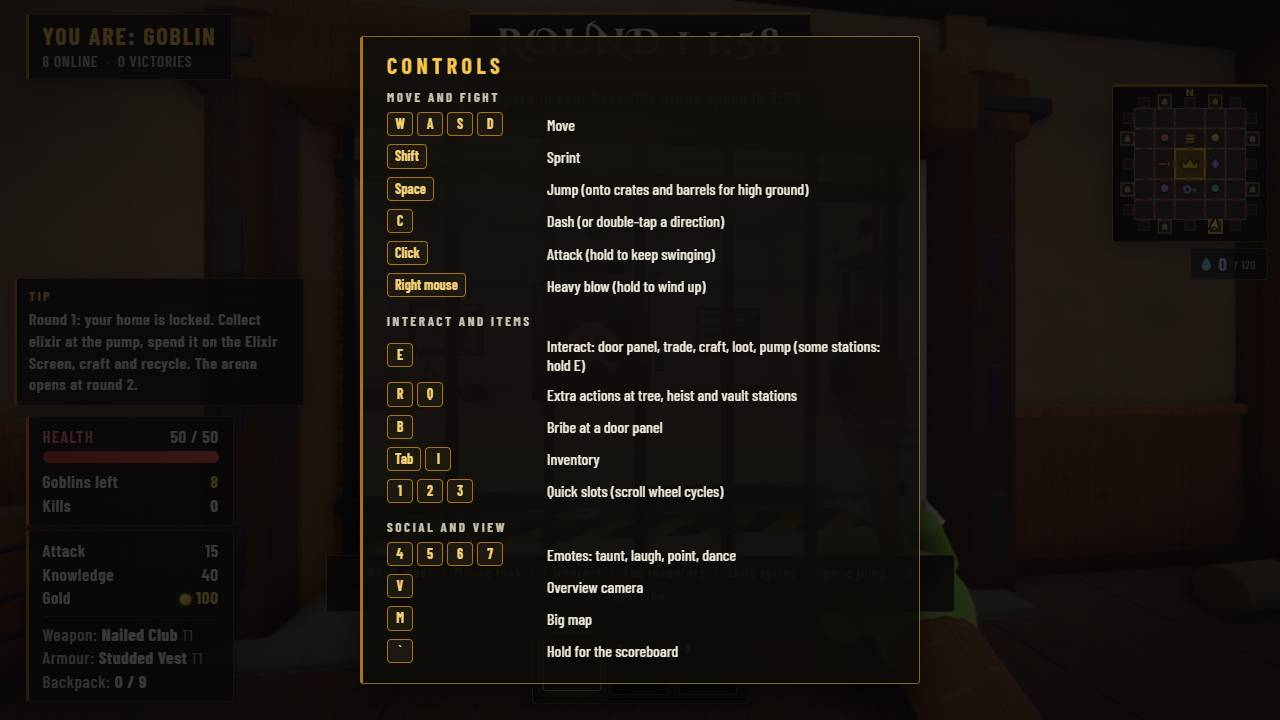
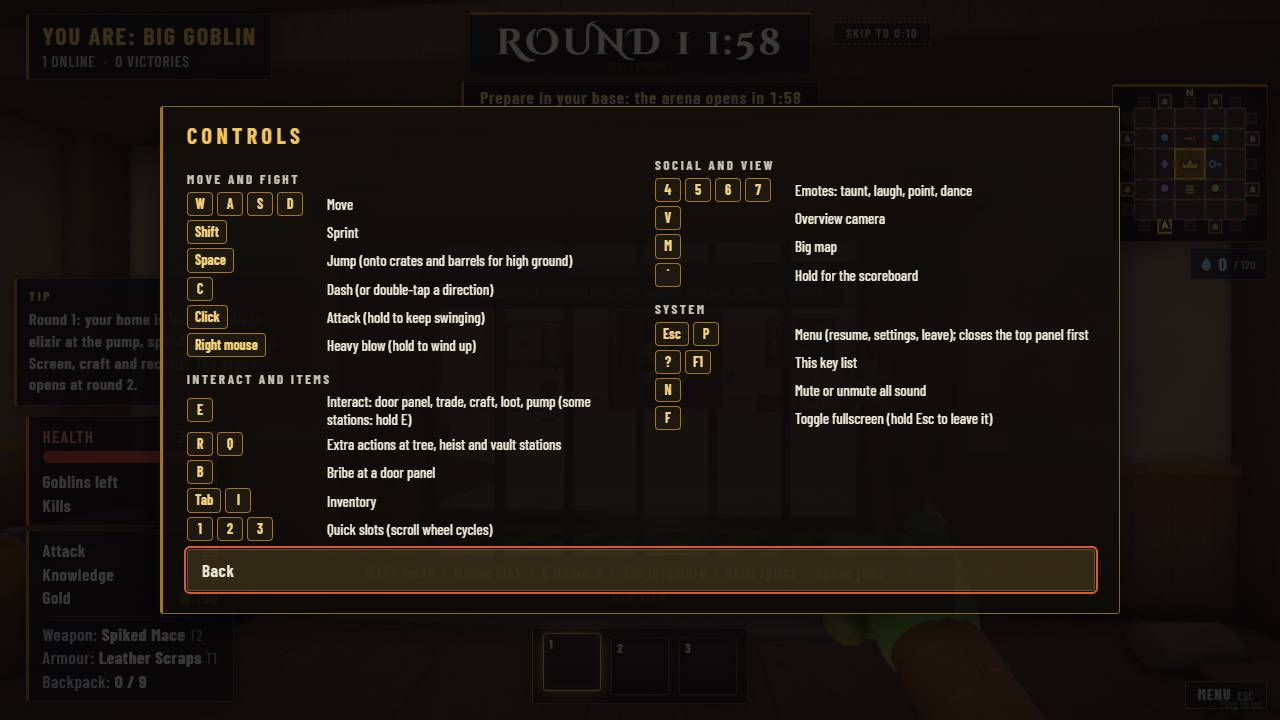
UI organise 2: inventory Sort/Lock/quick-equip, two-column key list

diff --git a/game.js b/game.js
@@ -4960,6 +4960,7 @@ function paintSlot(el, id) {
   if (el.dataset.lab) { const l = document.createElement('span'); l.className = 'kl'; l.textContent = el.dataset.lab; el.appendChild(l); }
   if (k != null) {
     el.appendChild(mkIcon(k, size));
+    if (invLocked(k)) { const lk = document.createElement('span'); lk.textContent = '◆'; lk.title = 'Locked'; lk.style.cssText = 'position:absolute;right:3px;top:1px;font:800 12px system-ui,sans-serif;color:#ffd75e;pointer-events:none;text-shadow:0 1px 2px #000'; el.appendChild(lk); }   // INVORG
     const tn = tierN(k); if (tn != null) { const b = document.createElement('span'); b.textContent = 'T' + tn; b.style.cssText = 'position:absolute;right:3px;bottom:2px;padding:0 4px;border-radius:4px;font:800 10px/14px system-ui,sans-serif;color:#0c0a06;pointer-events:none;background:' + (TIER_COL[(infoOf(k) || {}).tier] || '#9aa0a8'); el.appendChild(b); }
     else if (infoOf(k) && infoOf(k).family === 'brain') { const b = document.createElement('span'); b.textContent = '+' + fmtN(infoOf(k).gain); b.style.cssText = 'position:absolute;right:3px;bottom:2px;padding:0 4px;border-radius:4px;font:800 10px/14px system-ui,sans-serif;color:#0c0a06;pointer-events:none;background:#f08aa8'; el.appendChild(b); }
   } else if (id === 'weapon' || id === 'armor' || id === 'charm') { const c = mkIcon(id === 'weapon' ? 'w:sword' : id === 'charm' ? 'c:heart' : 'a:vest', size); c.className = 'sil'; el.appendChild(c); }
@@ -5021,6 +5022,7 @@ function moveInv(from, to) {
 }
 function dropSlot(id) {
   if (!id || invGet(myInv, id) == null) return;
+  if (invLocked(invGet(myInv, id))) { flashBad(id); invOrgHint('Locked: unlock it first (Lock button)'); return; }   // INVORG
   invDrop(myInv, id); net.send({ drop: id }); if (held === id) held = null; paintAll(); hideTip();
   const mine = actors.get(me); if (mine) showStats(null, mine.goblin);
 }
@@ -5054,7 +5056,7 @@ function buildInv() {
   const closeBtn = document.createElement('button'); closeBtn.textContent = 'CLOSE'; closeBtn.style.cssText = 'border:0;background:linear-gradient(180deg,#ffd75e,#e0a82a);color:#1a1405;font-weight:800';
   const eatBtn = document.createElement('button'); eatBtn.textContent = 'EAT / USE'; eatBtn.id = 'invEat'; eatBtn.style.cssText = 'border:1px solid #8be28b;background:rgba(40,120,50,.35);color:#b8f5b8';
   eatBtn.onclick = () => { const k = held && invGet(myInv, held); if (k && infoOf(k) && (infoOf(k).family === 'brain' || infoOf(k).use || infoOf(k).type === 'charm')) eatSlot(held); else { hintEl.style.color = '#ff8a7a'; hintEl.textContent = 'Pick up a brain or a utility item first, then press Eat / Use (or double-click it)'; setTimeout(() => { hintEl.style.color = '#8d8880'; hintEl.textContent = 'Right-click an item to drop it  ·  Tab / I / E to close'; }, 2200); } };
-  foot.append(hintEl, eatBtn, dropBtn, closeBtn);
+  foot.append(hintEl, ...invOrgButtons(), eatBtn, dropBtn, closeBtn);   // INVORG
   invEl.addEventListener('dblclick', e => { const el = e.target.closest && e.target.closest('.gks'); if (el && el.dataset.id) { held = null; eatSlot(el.dataset.id); } });
   panel.append(main, qwrap, foot); invEl.appendChild(panel);
   ghostEl = document.createElement('div'); ghostEl.style.cssText = 'position:fixed;z-index:70;display:none;pointer-events:none;filter:drop-shadow(0 4px 8px #000);transform:translate(-50%,-50%)';
@@ -5065,6 +5067,7 @@ function buildInv() {
   invEl.addEventListener('click', e => {
     const id = slotOf(e); if (e.target.closest('button')) return;
     if (!id) { if (e.target === invEl) { if (held) { held = null; paintAll(); } else closeInv(); } return; }   // FULLSCREEN-2: a click outside the bag closes it
+    if (e.shiftKey && held == null && invQuickEquip(id)) return;   // INVORG: shift-click gear = equip it
     if (held == null) { if (invGet(myInv, id) != null) { held = id; hideTip(); paintAll(); ghostAt(e); } } else moveInv(held, id);
   });
   invEl.addEventListener('contextmenu', e => { e.preventDefault(); const id = held || slotOf(e); if (id) dropSlot(id); });
@@ -5099,6 +5102,36 @@ function applyMatch(m) {
   lobbyEl.textContent = (lo === hi ? v(lo) : lo + '-' + hi + ' victories');
 }
 GK.showStats = () => { if (statsEl) statsEl.style.display = GK.mode === 'play' ? 'block' : 'none'; syncHotbar(); };
+// INVORG-BEGIN (inventory organising, docs/reports/ui-organize.md): Sort (favourites, then best tier, then kind) by swapping backpack slots with the normal mv message, Lock (client-side favourite: blocks drop, sorts first), shift-click quick-equip. uiorg.js holds the pure parts.
+const LOCKS = (() => { try { return JSON.parse(localStorage.getItem('gk.locks') || '{}') || {}; } catch (e) { return {}; } })();
+const invLocked = k => !!LOCKS[k];
+function invOrgHint(t) { if (!hintEl) return; hintEl.style.color = '#ff8a7a'; hintEl.textContent = t; setTimeout(() => { hintEl.style.color = '#8d8880'; hintEl.textContent = 'Right-click drops  ·  Shift-click equips  ·  Tab / I / E closes'; }, 2200); }
+function invQuickEquip(id) {
+  const k = invGet(myInv, id); if (k == null || id[0] === 'w' || id === 'armor' || id === 'charm') return false;
+  const it = infoOf(k), to = it && (it.type === 'weapon' ? 'weapon' : it.type === 'armor' ? 'armor' : it.type === 'charm' ? 'charm' : null);
+  if (!to) return false; moveInv(id, to); return true;
+}
+function invSortBackpack() {
+  if (!window.GKUIORG) return;
+  const ents = myInv.backpack.filter(k => k != null).map(k => { const i = infoOf(k) || {}; return { key: k, name: i.name || String(k), tier: i.tier, kind: i.type || '' }; });
+  const want = GKUIORG.sortEntries(ents, 'kind', LOCKS).map(e => e.key); while (want.length < 9) want.push(null);
+  for (let i = 0; i < 9; i++) {
+    if (myInv.backpack[i] === want[i]) continue;
+    const j = myInv.backpack.findIndex((k, x) => x > i && k === want[i]); if (j < 0) continue;
+    if (!canMove(myInv, 'b' + j, 'b' + i)) continue; invMove(myInv, 'b' + j, 'b' + i); net.send({ mv: ['b' + j, 'b' + i] });
+  }
+  held = null; paintAll();
+}
+function invToggleLock() {
+  const k = held ? invGet(myInv, held) : null; if (k == null) { invOrgHint('Pick up an item first, then press Lock'); return; }
+  if (LOCKS[k]) delete LOCKS[k]; else LOCKS[k] = 1; try { localStorage.setItem('gk.locks', JSON.stringify(LOCKS)); } catch (e) {}
+  held = null; paintAll();
+}
+function invOrgButtons() {
+  const mk = (t, fn, tip) => { const b = document.createElement('button'); b.textContent = t; b.title = tip; b.onclick = fn; b.style.cssText = 'border:1px solid rgba(255,215,94,.5);background:rgba(255,215,94,.08);color:#ffd75e'; return b; };
+  return [mk('SORT', invSortBackpack, 'Locked items first, then by kind and best tier'), mk('LOCK', invToggleLock, 'Pick up an item, then Lock: it cannot be dropped and sorts first')];
+}
+// INVORG-END
 GK.getInv = () => JSON.parse(JSON.stringify(myInv));
 GK.openInventory = openInv; GK.closeInventory = closeInv;
 addEventListener('keydown', e => {

diff --git a/uiorg.js b/uiorg.js
@@ -76,6 +76,7 @@
     '#gkPause .pb:hover,#gkPause .pb:focus-visible{background:rgba(245,196,81,.16);outline:2px solid rgba(255,106,42,.85);outline-offset:1px}#gkPause .pb.bad{border-color:#e0503a;color:#ffb3a6}' +
     '#gkPause .sr{display:grid;grid-template-columns:1fr minmax(120px,1.1fr) 52px;gap:8px;align-items:center;padding:5px 0;border-bottom:1px solid rgba(255,255,255,.06);font-size:16px}#gkPause .sr output{text-align:right;color:#c9c3b0}' +
     '#gkPause .kr{display:flex;gap:10px;align-items:center;padding:4px 0;font-size:16px}#gkPause .kr .ks{flex:0 0 150px}#gkPause kbd{display:inline-block;min-width:26px;margin-right:4px;padding:2px 7px;text-align:center;font:700 14px/1.3 var(--ui,system-ui);color:#f5d27a;background:#1d1810;border:1px solid #a8741a;border-radius:4px}' +
+    '#gkPause .pp.wide{width:min(960px,96vw)}#gkPause .cg{columns:2 380px;column-gap:28px}#gkPause .cgr{break-inside:avoid}#gkPause .kr{padding:2px 0;font-size:15px}#gkPause .kr .ks{flex:0 0 130px}' +
     '#gkPause .note{margin-top:10px;font-size:15px;color:#c9c3b0}#gkMenuBtn{position:fixed;right:max(10px,1vw);bottom:max(10px,1.5vh);z-index:30;display:none;padding:6px 12px;font:700 14px/1 var(--ui,system-ui);letter-spacing:.1em;text-transform:uppercase;color:#efe9d8;background:rgba(12,10,8,.84);border:1px solid rgba(245,196,81,.5);border-radius:3px;cursor:pointer;opacity:.78}' +
     '#gkMenuBtn:hover,#gkMenuBtn:focus-visible{opacity:1;outline:2px solid rgba(255,106,42,.85)}#gkMenuBtn small{margin-left:6px;color:#a39e8e;font-weight:600;letter-spacing:.04em}@media (max-width:780px){#gkMenuBtn small{display:none}}';
 
@@ -118,7 +119,8 @@
       backBtn(p);
     } else if (v === 'controls') {
       p = box('Controls');
-      for (const g of CHEAT) { p.appendChild($('h3', null, g.group)); for (const k of g.keys) { const r = $('div', 'kr'), ks = $('span', 'ks'); for (const x of k.k) ks.appendChild($('kbd', null, x.trim())); r.appendChild(ks); r.appendChild($('span', null, k.t)); p.appendChild(r); } }
+      p.classList.add('wide'); const cg = $('div', 'cg'); p.appendChild(cg);   // two columns: the whole list fits at 720p
+      for (const g of CHEAT) { const gd = $('div', 'cgr'); gd.appendChild($('h3', null, g.group)); for (const k of g.keys) { const r = $('div', 'kr'), ks = $('span', 'ks'); for (const x of k.k) ks.appendChild($('kbd', null, x.trim())); r.appendChild(ks); r.appendChild($('span', null, k.t)); gd.appendChild(r); } cg.appendChild(gd); }
       first = backBtn(p);
     } else if (v === 'stats') {
       p = box('Stats'); const holder = $('div'); p.appendChild(holder);

diff --git a/tests/uiorg.test.js b/tests/uiorg.test.js
@@ -32,6 +32,10 @@ run('uiorg', [
     eq(U.stack(L).find(e => e.key === 'a').n, 3); eq(U.filterEntries(L, 'bo').length, 1); eq(U.filterEntries(L, '', 'armor').length, 1);
     eq(U.groupBy(U.stack(L), 'kind').map(g => g.id), ['weapon', 'armor']); eq(U.toggleFav({}, 'x'), { x: 1 }); eq(U.toggleFav({ x: 1 }, 'x'), {});
   }],
+  ['inventory organising is wired: Sort, Lock, shift-click equip, locked items cannot be dropped, two-column key list', () => {
+    const g = rd('game.js'); for (const w of ['INVORG-BEGIN', 'INVORG-END', 'invOrgButtons()', 'invQuickEquip(id)', 'invLocked(invGet(myInv, id))', "net.send({ mv: ['b' + j"]) assert(g.includes(w), w);
+    assert(rd('uiorg.js').includes("classList.add('wide')"), 'controls view is two columns');
+  }],
   ['wiring: served, loaded, movement gated, mute honoured, no window.confirm', () => {
     assert(/CLIENT_JS = new Set\(\[[^\]]*'uiorg'/.test(rd('server.js')), 'CLIENT_JS'); assert(rd('index.html').includes('/uiorg.js'), 'script tag');
     assert(rd('game.js').includes('!GK.locked && !GK.pauseOpen'), 'movement gate'); assert(/set\(\)\.mute \? 0/.test(rd('audio.js')), 'audio mute');

diff --git a/docs/reports/ui-organize.md b/docs/reports/ui-organize.md
@@ -7,3 +7,9 @@
 **Tested**: tests/uiorg.test.js (9), fskeep regex relaxed for the new gate, `npm run check`, drv.js smoke at 1280x720 (Esc opens, N ignored inside, Resume, F1 view; screens `docs/screens/pause-*.jpg`).
 **Not done** (audit found workbench/WBUI already has search, sort, craftable-first, missing hints): inventory grouping/favourite UI, shop list unification, HUD regrouping, Elixir sections. Controls view scrolls at 720p (System group below the fold). Leave uses `location.reload()`.
 **Merger notes**: server.js CLIENT_JS gained 'uiorg'; run `npm run map`.
+
+## Part 2 (inventory, controls, HUD audit)
+- **Inventory** (game.js INVORG block): SORT button (locked first, then kind, best tier; swaps via the normal `mv` message), LOCK button (client-side favourite on the held item, diamond badge, blocks drop incl. right-click, persisted in `gk.locks`), shift-click quick-equips gear. Existing tooltip already compares to the equipped item; hotbar already shows keys 1-3. The backpack has 9 slots and no stacks, so grouping and stacking are not applicable.
+- **Controls view** is two columns and fits 720p. **HUD**: measured element rectangles at 1280x720, 1920x1080, 2560x1440 in the home phase: no overlaps (only the lobby line inside the HUD box, by design).
+- **Tested**: uiorg test (+1 wiring), drv.js smoke (inventory opens with Sort/Lock, key list). Screens: docs/screens/inv-org.jpg, pause-keys.jpg.
+- **Not done**: recycle/sell inside the inventory panel (needs server station flow), shop/merchant/Elixir section restructure (homeui.js and the Elixir Screen are being edited by other agents), arena-phase HUD overlap check.
